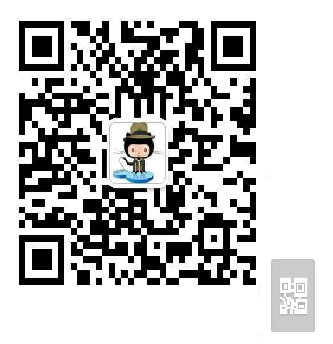
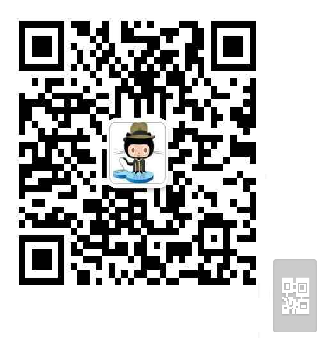
update

Changed region(s): [[0.8108, 0.7558, 0.961, 0.9593]]

diff --git a/assets/css/lrtk.css b/assets/css/lrtk.css
@@ -9,5 +9,5 @@ _position:absolute;_bottom:auto;_top:expression(eval(document.documentElement.sc
 #code_hover{ background-position:-316px -258px; bottom:120px; _margin-bottom:120px;}
 #gotop{ background-position:-276px -310px; bottom:67px; _margin-bottom:67px;} 
 
-#code_img{ width:270px; height:355px; background:url(../../image/icon.png) -4px -3px no-repeat; position:fixed; right:90px; bottom:67px; cursor:pointer; display:none;
+#code_img{ width:270px; height:300px; background:url(../../image/icon.png) no-repeat; position:fixed; right:90px; bottom:67px; cursor:pointer; display:none;
 _position:absolute;_bottom:auto;_top:expression(eval(document.documentElement.scrollTop+document.documentElement.clientHeight-this.offsetHeight-(parseInt(this.currentStyle.marginTop,10)||0)-(parseInt(this.currentStyle.marginBottom,10)||0))); _margin-bottom:67px;}
